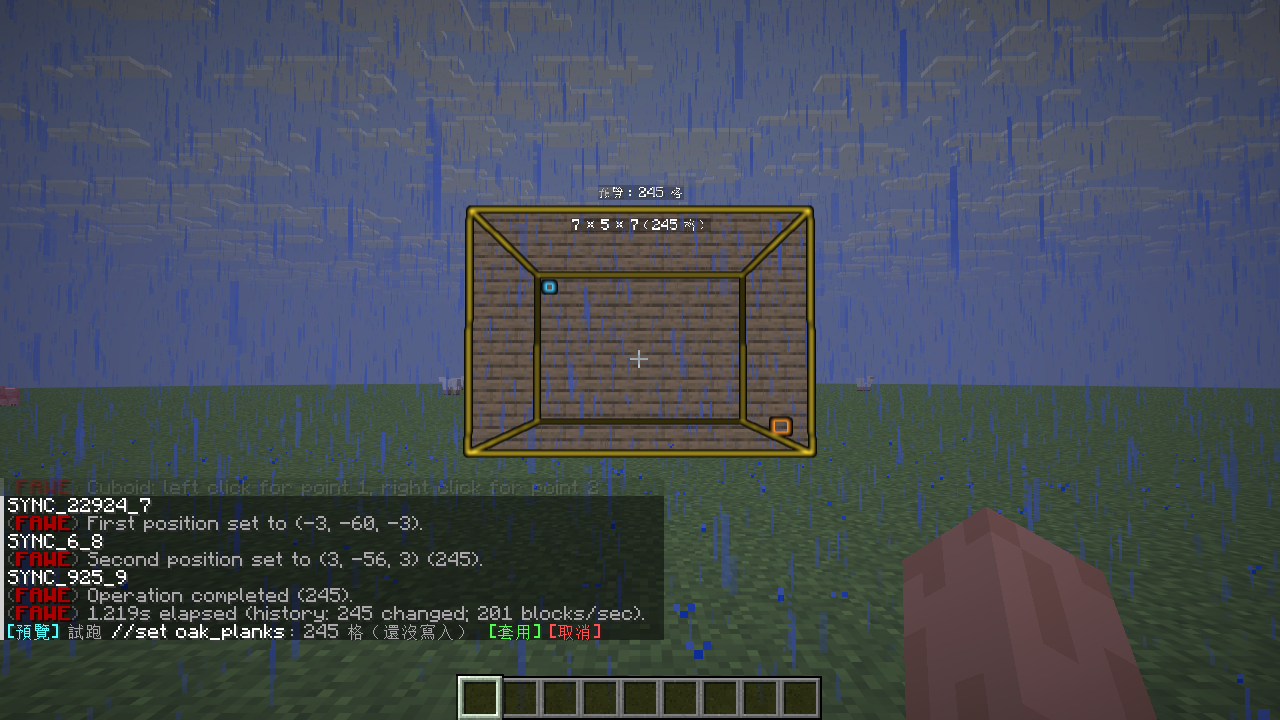
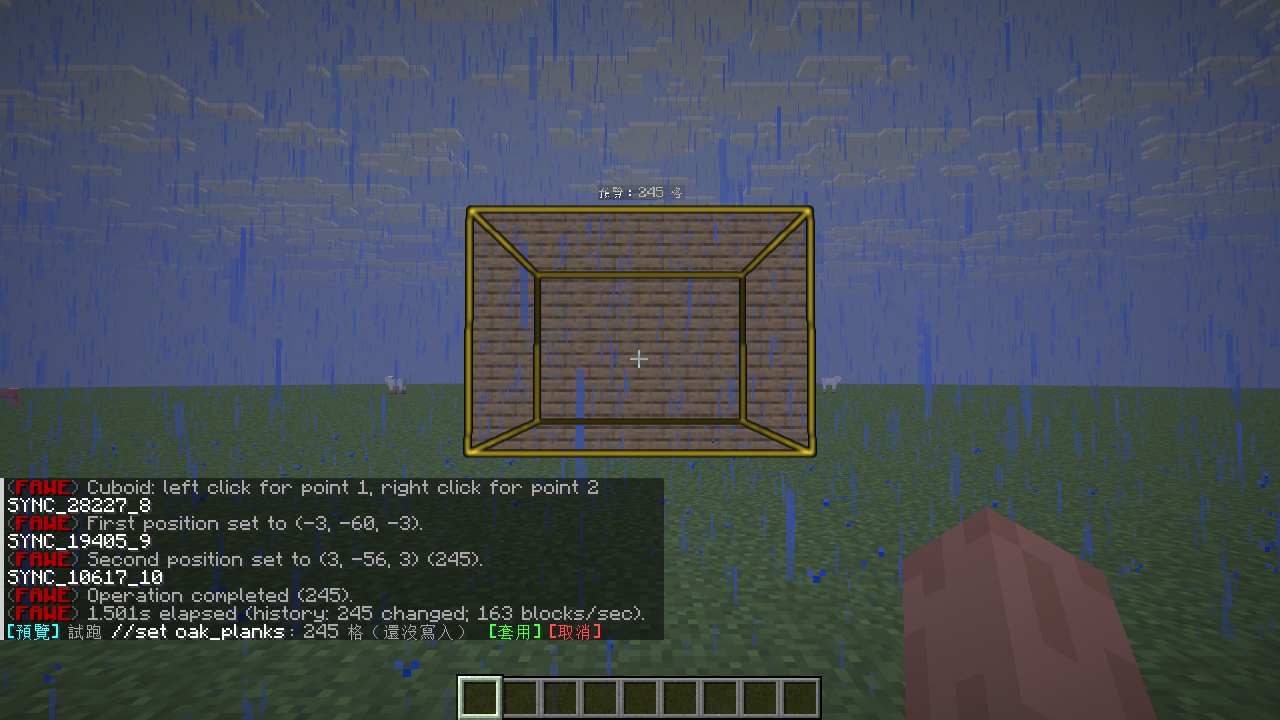
移除選區邊框，專注方塊預覽；e2e 加入 FAWE 魔法選取
- 選區邊框交給其他插件（WorldEditCUI、WorldEditDisplay），刪除 Shapes 與 /pev outline
- 保留預覽外圍黃框與格數標籤，改用 /pev box 開關（設定 defaults.box）
- e2e：預覽框開關、FAWE //sel fuzzy 的試跑與打字預覽（FAWE 26/26）
- README 更新、加入魔法選取截圖

diff --git a/src/main/java/dev/twme/editpreview/EditPreviewPlugin.java b/src/main/java/dev/twme/editpreview/EditPreviewPlugin.java
@@ -1,14 +1,11 @@
 package dev.twme.editpreview;
 
 import com.destroystokyo.paper.event.server.AsyncTabCompleteEvent;
-import com.sk89q.worldedit.IncompleteRegionException;
 import com.sk89q.worldedit.LocalSession;
 import com.sk89q.worldedit.WorldEdit;
 import com.sk89q.worldedit.bukkit.BukkitAdapter;
-import com.sk89q.worldedit.regions.RegionSelector;
 import com.sk89q.worldedit.world.block.BlockState;
 import dev.twme.editpreview.render.Geo.Shape;
-import dev.twme.editpreview.render.Shapes;
 import java.util.ArrayList;
 import java.util.HashMap;
 import java.util.List;
@@ -67,7 +64,7 @@ public final class EditPreviewPlugin extends JavaPlugin implements Listener, Tab
   private int maxCapture, maxDisplay, liveMax;
   private double brushMax;
   private long tick;
-  private NamespacedKey kAlways, kOutline, kBrush, kStyle;
+  private NamespacedKey kAlways, kBox, kBrush, kStyle;
 
   @Override
   public void onEnable() {
@@ -77,7 +74,7 @@ public final class EditPreviewPlugin extends JavaPlugin implements Listener, Tab
     liveMax = getConfig().getInt("live-max-volume", 262_144);
     brushMax = getConfig().getDouble("brush-max-size", 32);
     kAlways = new NamespacedKey(this, "always");
-    kOutline = new NamespacedKey(this, "outline");
+    kBox = new NamespacedKey(this, "box");
     kBrush = new NamespacedKey(this, "brush");
     kStyle = new NamespacedKey(this, "style");
     fawe = Bukkit.getPluginManager().getPlugin("FastAsyncWorldEdit") != null;
@@ -121,7 +118,7 @@ public final class EditPreviewPlugin extends JavaPlugin implements Listener, Tab
     PlayerState st = new PlayerState(this, p);
     var pdc = p.getPersistentDataContainer();
     st.always = pdc.getOrDefault(kAlways, PersistentDataType.BYTE, (byte) (getConfig().getBoolean("defaults.always", false) ? 1 : 0)) == 1;
-    st.showOutline = pdc.getOrDefault(kOutline, PersistentDataType.BYTE, (byte) (getConfig().getBoolean("defaults.outline", true) ? 1 : 0)) == 1;
+    st.showBox = pdc.getOrDefault(kBox, PersistentDataType.BYTE, (byte) (getConfig().getBoolean("defaults.box", true) ? 1 : 0)) == 1;
     st.brush = pdc.getOrDefault(kBrush, PersistentDataType.BYTE, (byte) (getConfig().getBoolean("defaults.brush", true) ? 1 : 0)) == 1;
     try {
       st.style = PlayerState.StyleMode.valueOf(pdc.getOrDefault(kStyle, PersistentDataType.STRING, "AUTO"));
@@ -135,7 +132,7 @@ public final class EditPreviewPlugin extends JavaPlugin implements Listener, Tab
   private void save(PlayerState st) {
     var pdc = st.player.getPersistentDataContainer();
     pdc.set(kAlways, PersistentDataType.BYTE, (byte) (st.always ? 1 : 0));
-    pdc.set(kOutline, PersistentDataType.BYTE, (byte) (st.showOutline ? 1 : 0));
+    pdc.set(kBox, PersistentDataType.BYTE, (byte) (st.showBox ? 1 : 0));
     pdc.set(kBrush, PersistentDataType.BYTE, (byte) (st.brush ? 1 : 0));
     pdc.set(kStyle, PersistentDataType.STRING, st.style.name());
   }
@@ -261,7 +258,7 @@ public final class EditPreviewPlugin extends JavaPlugin implements Listener, Tab
         if (st.always) live(st, now);
         if (st.always && st.brush && tick % 3 == 0) brush(st);
         else if ((!st.always || !st.brush) && st.source == PlayerState.Source.BRUSH) st.clearPreview();
-        if (tick % 4 == 0) st.outline.show(st.showOutline ? selection(st.player).plus(st.previewBox) : st.previewBox);
+        if (tick % 4 == 0) st.outline.show(st.showBox ? st.previewBox : Shape.empty());
         st.fake.flush();
       } catch (Throwable t) {
         getLogger().warning("預覽更新失敗（" + st.player.getName() + "）：" + t);
@@ -376,25 +373,6 @@ public final class EditPreviewPlugin extends JavaPlugin implements Listener, Tab
     show(st, writes, out.capture().style, PlayerState.Source.BRUSH);
   }
 
-  private static Shape selection(Player p) {
-    LocalSession s = WorldEdit.getInstance().getSessionManager().getIfPresent(BukkitAdapter.adapt(p));
-    if (s == null) return Shape.empty();
-    var w = s.getSelectionWorld();
-    // 只在同一個世界取選取器：getRegionSelector 換世界會清掉選區
-    if (w == null || !w.getName().equals(p.getWorld().getName())) return Shape.empty();
-    RegionSelector sel = s.getRegionSelector(w);
-    try {
-      if (sel.isDefined()) return Shapes.region(sel.getRegion());
-    } catch (IncompleteRegionException ignored) {
-      // 往下
-    }
-    try {
-      return Shapes.point(sel.getPrimaryPosition());
-    } catch (IncompleteRegionException e) {
-      return Shape.empty();
-    }
-  }
-
   // ---------------- /pev ----------------
 
   @Override
@@ -425,10 +403,10 @@ public final class EditPreviewPlugin extends JavaPlugin implements Listener, Tab
         info(p, Component.text("恆預覽：" + (st.always ? "開（WorldEdit 指令只試跑，按 [套用] 才寫入；打字與筆刷即時預覽）" : "關"),
             st.always ? NamedTextColor.GREEN : NamedTextColor.GRAY));
       }
-      case "outline" -> {
-        st.showOutline = toggle(args, st.showOutline);
+      case "box" -> {
+        st.showBox = toggle(args, st.showBox);
         save(st);
-        info(p, Component.text("選區邊框：" + (st.showOutline ? "開" : "關"), NamedTextColor.GRAY));
+        info(p, Component.text("預覽範圍框：" + (st.showBox ? "開" : "關"), NamedTextColor.GRAY));
       }
       case "brush" -> {
         st.brush = toggle(args, st.brush);
@@ -513,7 +491,7 @@ public final class EditPreviewPlugin extends JavaPlugin implements Listener, Tab
         {"/pev mask <遮罩>", "選區中符合遮罩的方塊顯示綠色玻璃"},
         {"/pev pattern <pattern>", "預覽選區換成 pattern"},
         {"/pev style auto|blocks|glass", "試跑的顯示方式（auto：有遮罩或 replace 用綠色玻璃）"},
-        {"/pev outline [on|off]", "選區邊框（目前 " + (st.showOutline ? "開" : "關") + "）"},
+        {"/pev box [on|off]", "預覽外圍的黃框與格數標籤（目前 " + (st.showBox ? "開" : "關") + "）"},
         {"/pev brush [on|off]", "恆預覽中的筆刷預覽（目前 " + (st.brush ? "開" : "關") + "）"},
     };
     info(p, Component.text("WorldEdit 預覽", NamedTextColor.AQUA));
@@ -526,13 +504,13 @@ public final class EditPreviewPlugin extends JavaPlugin implements Listener, Tab
   public List<String> onTabComplete(CommandSender sender, Command command, String alias, String[] args) {
     if (args.length == 1) {
       List<String> out = new ArrayList<>();
-      for (String s : List.of("always", "apply", "clear", "mask", "pattern", "style", "outline", "brush", "help"))
+      for (String s : List.of("always", "apply", "clear", "mask", "pattern", "style", "box", "brush", "help"))
         if (s.startsWith(args[0].toLowerCase(Locale.ROOT))) out.add(s);
       return out;
     }
     if (args.length == 2) {
       return switch (args[0].toLowerCase(Locale.ROOT)) {
-        case "always", "outline", "brush" -> List.of("on", "off");
+        case "always", "box", "brush" -> List.of("on", "off");
         case "style" -> List.of("auto", "blocks", "glass");
         default -> List.of();
       };

diff --git a/src/main/java/dev/twme/editpreview/PlayerState.java b/src/main/java/dev/twme/editpreview/PlayerState.java
@@ -29,7 +29,7 @@ final class PlayerState {
   final FakeView fake;
 
   boolean always;
-  boolean showOutline = true;
+  boolean showBox = true;
   boolean brush = true;
   StyleMode style = StyleMode.AUTO;
 
